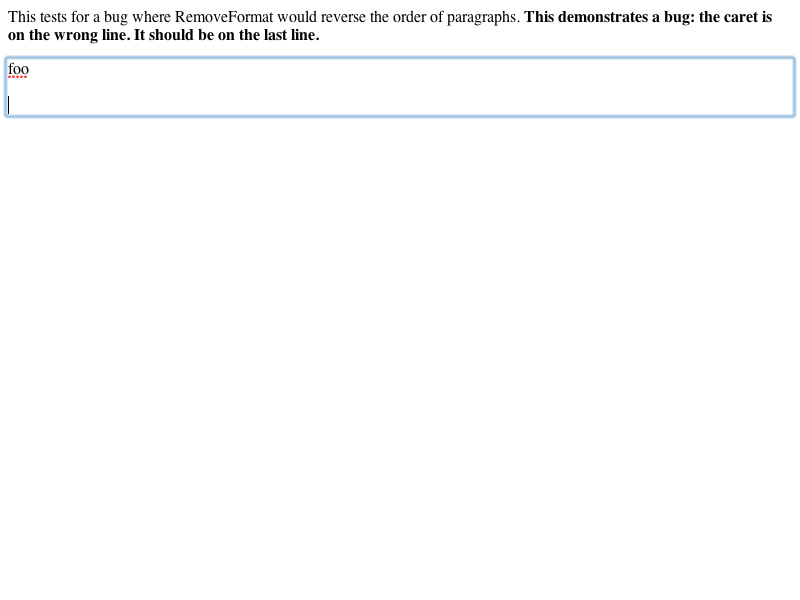
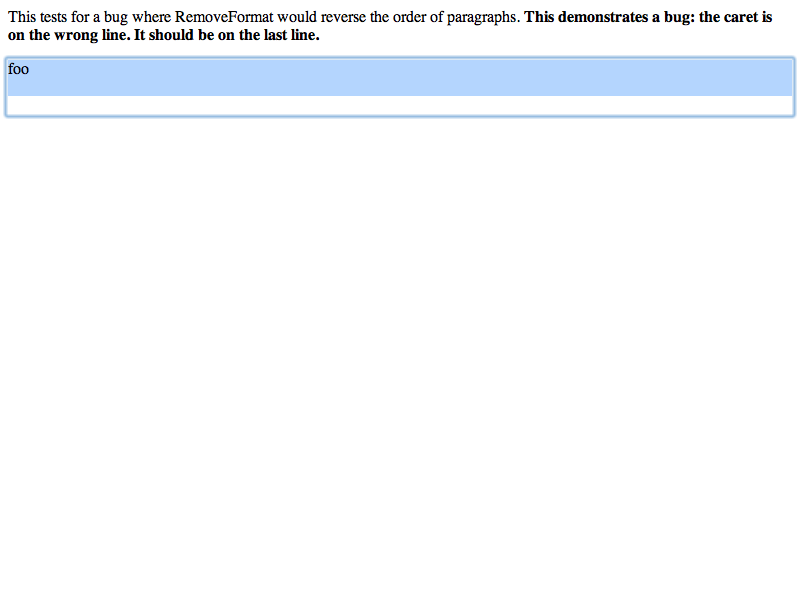
WebCore:
Reviewed by Darin Adler.

        <rdar://problem/5573879> GMail Beta: Crash in when undoing Remove Formating
        
        In the new beta, Google has added some custom code on top of our RemoveFormat
        to work around a bug where fully selected lists aren't removed.  This code corrupts
        the undo stack and causes crashes.  This change fixes two problems with RemoveFormat
        so that Google doesn't have to have any custom code. After checking this in I'll 
        work on bulletproofing the undo stack

        * WebCore.xcodeproj/project.pbxproj: 
        * editing/CompositeEditCommand.cpp:
        (WebCore::CompositeEditCommand::insertLineBreak): Added this convenience method.
        (WebCore::CompositeEditCommand::inputText): Added code to select all inserted text, not
        just the last paragraph.  Added code to support an input string with '\n's.
        * editing/CompositeEditCommand.h:
        * editing/Editor.cpp:
        (WebCore::Editor::removeFormattingAndStyle): Moved code to its own EditCommand.
        * editing/RemoveFormatCommand.cpp: Added. Moved code from removeFormattingAndStyle here.
        (WebCore::RemoveFormatCommand::RemoveFormatCommand):
        (WebCore::RemoveFormatCommand::doApply): Added code to remove fully selected lists.
        * editing/RemoveFormatCommand.h: Added.
        (WebCore::RemoveFormatCommand::editingAction):

LayoutTests:

        Reviewed by Darin Adler.
[…]

Changed region(s): [[0.0, 0.0, 1.0, 0.18]]

diff --git a/LayoutTests/editing/execCommand/5573879.html b/LayoutTests/editing/execCommand/5573879.html
@@ -1,0 +1,10 @@
+<p>This tests to make sure that RemoveFormat destroys lists if they are fully selected.  You should see foo\nbar below.</p>
+<div id="div" contenteditable="true"><ul><li>foo</li><li>bar</li></ul></div>
+
+<script>
+div = document.getElementById("div");
+div.focus();
+
+document.execCommand("SelectAll");
+document.execCommand("RemoveFormat");
+</script>

diff --git a/WebCore/editing/RemoveFormatCommand.cpp b/WebCore/editing/RemoveFormatCommand.cpp
@@ -1,0 +1,78 @@
+/*
+ * Copyright (C) 2007 Apple Computer, Inc.  All rights reserved.
+ *
+ * Redistribution and use in source and binary forms, with or without
+ * modification, are permitted provided that the following conditions
+ * are met:
+ * 1. Redistributions of source code must retain the above copyright
+ *    notice, this list of conditions and the following disclaimer.
+ * 2. Redistributions in binary form must reproduce the above copyright
+ *    notice, this list of conditions and the following disclaimer in the
+ *    documentation and/or other materials provided with the distribution.
+ *
+ * THIS SOFTWARE IS PROVIDED BY APPLE COMPUTER, INC. ``AS IS'' AND ANY
+ * EXPRESS OR IMPLIED WARRANTIES, INCLUDING, BUT NOT LIMITED TO, THE
+ * IMPLIED WARRANTIES OF MERCHANTABILITY AND FITNESS FOR A PARTICULAR
+ * PURPOSE ARE DISCLAIMED.  IN NO EVENT SHALL APPLE COMPUTER, INC. OR
+ * CONTRIBUTORS BE LIABLE FOR ANY DIRECT, INDIRECT, INCIDENTAL, SPECIAL,
+ * EXEMPLARY, OR CONSEQUENTIAL DAMAGES (INCLUDING, BUT NOT LIMITED TO,
+ * PROCUREMENT OF SUBSTITUTE GOODS OR SERVICES; LOSS OF USE, DATA, OR
+ * PROFITS; OR BUSINESS INTERRUPTION) HOWEVER CAUSED AND ON ANY THEORY
+ * OF LIABILITY, WHETHER IN CONTRACT, STRICT LIABILITY, OR TORT
+ * (INCLUDING NEGLIGENCE OR OTHERWISE) ARISING IN ANY WAY OUT OF THE USE
+ * OF THIS SOFTWARE, EVEN IF ADVISED OF THE POSSIBILITY OF SUCH DAMAGE. 
+ */
+
+#include "config.h"
+#include "RemoveFormatCommand.h"
+
+#include "CSSComputedStyleDeclaration.h"
+#include "Editor.h"
+#include "Frame.h"
+#include "HTMLNames.h"
+#include "Selection.h"
+#include "SelectionController.h"
+#include "TextIterator.h"
+#include "TypingCommand.h"
+
+namespace WebCore {
+
+using namespace HTMLNames;
+
+RemoveFormatCommand::RemoveFormatCommand(Document* document)
+    : CompositeEditCommand(document)
+{
+}
+
+void RemoveFormatCommand::doApply()
+{
+    Frame* frame = document()->frame();
+    
+    // Make a plain text string from the selection to remove formatting like tables and lists.
+    String string = plainText(frame->selectionController()->selection().toRange().get());
+
+    // Get the default style for this editable root, it's the style that we'll give the
+    // content that we're operating on.
+    Node* root = frame->selectionController()->rootEditableElement();
+    RefPtr<CSSComputedStyleDeclaration> computedStyle = new CSSComputedStyleDeclaration(root);
+    RefPtr<CSSMutableStyleDeclaration> defaultStyle = computedStyle->copyInheritableProperties();
+    
+    // Delete the selected content.
+    // FIXME: We should be able to leave this to insertText, but its delete operation
+    // doesn't preserve the style we're about to set.
+    deleteSelection();
+    
+    // Delete doesn't remove fully selected lists.
+    while (breakOutOfEmptyListItem())
+        ;
+    
+    // Normally, deleting a fully selected anchor and then inserting text will re-create
+    // the removed anchor, but we don't want that behavior here. 
+    frame->editor()->setRemovedAnchor(0);
+    // Insert the content with the default style.
+    frame->setTypingStyle(defaultStyle.get());
+    
+    inputText(string, true);
+}
+
+}

diff --git a/WebCore/editing/CompositeEditCommand.cpp b/WebCore/editing/CompositeEditCommand.cpp
@@ -40,6 +40,7 @@
 #include "HTMLNames.h"
 #include "InlineTextBox.h"
 #include "InsertIntoTextNodeCommand.h"
+#include "InsertLineBreakCommand.h"
 #include "InsertNodeBeforeCommand.h"
 #include "InsertParagraphSeparatorCommand.h"
 #include "InsertTextCommand.h"
@@ -120,6 +121,11 @@ void CompositeEditCommand::removeStyledElement(Element* element)
 void CompositeEditCommand::insertParagraphSeparator(bool useDefaultParagraphElement)
 {
     applyCommandToComposite(new InsertParagraphSeparatorCommand(document(), useDefaultParagraphElement));
+}
+
+void CompositeEditCommand::insertLineBreak()
+{
+    applyCommandToComposite(new InsertLineBreakCommand(document()));
 }
 
 void CompositeEditCommand::insertNodeBefore(Node* insertChild, Node* refChild)
@@ -262,9 +268,29 @@ void CompositeEditCommand::joinTextNodes(Text *text1, Text *text2)
 
 void CompositeEditCommand::inputText(const String &text, bool selectInsertedText)
 {
-    RefPtr<InsertTextCommand> command = new InsertTextCommand(document());
-    applyCommandToComposite(command);
-    command->input(text, selectInsertedText);
+    int offset = 0;
+    int length = text.length();
+    RefPtr<Range> startRange = new Range(document(), Position(document()->documentElement(), 0), endingSelection().start());
+    int startIndex = TextIterator::rangeLength(startRange.get());
+    int newline;
+    do {
+        newline = text.find('\n', offset);
+        if (newline != offset) {
+            RefPtr<InsertTextCommand> command = new InsertTextCommand(document());
+            applyCommandToComposite(command);
+            int substringLength = newline == -1 ? length - offset : newline - offset;
+            command->input(text.substring(offset, substringLength), false);
+        }
+        if (newline != -1)
+            insertLineBreak();
+            
+        offset = newline + 1;
+    } while (newline != -1 && offset != length);
+    
+    if (selectInsertedText) {
+        RefPtr<Range> selectedRange = TextIterator::rangeFromLocationAndLength(document()->documentElement(), startIndex, length);
+        setEndingSelection(Selection(selectedRange.get()));
+    }
 }
 
 void CompositeEditCommand::insertTextIntoNode(Text *node, int offset, const String &text)

diff --git a/WebCore/editing/RemoveFormatCommand.h b/WebCore/editing/RemoveFormatCommand.h
@@ -1,0 +1,42 @@
+/*
+ * Copyright (C) 2007 Apple Computer, Inc.  All rights reserved.
+ *
+ * Redistribution and use in source and binary forms, with or without
+ * modification, are permitted provided that the following conditions
+ * are met:
+ * 1. Redistributions of source code must retain the above copyright
+ *    notice, this list of conditions and the following disclaimer.
+ * 2. Redistributions in binary form must reproduce the above copyright
+ *    notice, this list of conditions and the following disclaimer in the
+ *    documentation and/or other materials provided with the distribution.
+ *
+ * THIS SOFTWARE IS PROVIDED BY APPLE COMPUTER, INC. ``AS IS'' AND ANY
+ * EXPRESS OR IMPLIED WARRANTIES, INCLUDING, BUT NOT LIMITED TO, THE
+ * IMPLIED WARRANTIES OF MERCHANTABILITY AND FITNESS FOR A PARTICULAR
+ * PURPOSE ARE DISCLAIMED.  IN NO EVENT SHALL APPLE COMPUTER, INC. OR
+ * CONTRIBUTORS BE LIABLE FOR ANY DIRECT, INDIRECT, INCIDENTAL, SPECIAL,
+ * EXEMPLARY, OR CONSEQUENTIAL DAMAGES (INCLUDING, BUT NOT LIMITED TO,
+ * PROCUREMENT OF SUBSTITUTE GOODS OR SERVICES; LOSS OF USE, DATA, OR
+ * PROFITS; OR BUSINESS INTERRUPTION) HOWEVER CAUSED AND ON ANY THEORY
+ * OF LIABILITY, WHETHER IN CONTRACT, STRICT LIABILITY, OR TORT
+ * (INCLUDING NEGLIGENCE OR OTHERWISE) ARISING IN ANY WAY OUT OF THE USE
+ * OF THIS SOFTWARE, EVEN IF ADVISED OF THE POSSIBILITY OF SUCH DAMAGE. 
+ */
+
+#ifndef RemoveFormatCommand_h
+#define RemoveFormatCommand_h
+
+#include "CompositeEditCommand.h"
+
+namespace WebCore {
+
+class RemoveFormatCommand : public CompositeEditCommand {
+public:
+    RemoveFormatCommand(Document*);
+    virtual void doApply();
+    virtual EditAction editingAction() const { return EditActionUnspecified; }
+};
+
+} // namespace WebCore
+
+#endif // RemoveFormatCommand_h

diff --git a/WebCore/editing/Editor.cpp b/WebCore/editing/Editor.cpp
@@ -61,6 +61,7 @@
 #include "Page.h"
 #include "Pasteboard.h"
 #include "Range.h"
+#include "RemoveFormatCommand.h"
 #include "ReplaceSelectionCommand.h"
 #include "SelectionController.h"
 #include "Sound.h"
@@ -581,27 +582,7 @@ void Editor::decreaseSelectionListLevel()
 
 void Editor::removeFormattingAndStyle()
 {
-    Document* document = m_frame->document();
-    
-    // Make a plain text string from the selection to remove formatting like tables and lists.
-    String string = plainText(m_frame->selectionController()->selection().toRange().get());
-
-    // Get the default style for this editable root, it's the style that we'll give the
-    // content that we're operating on.
-    Node* root = m_frame->selectionController()->rootEditableElement();
-    RefPtr<CSSComputedStyleDeclaration> computedStyle = new CSSComputedStyleDeclaration(root);
-    RefPtr<CSSMutableStyleDeclaration> defaultStyle = computedStyle->copyInheritableProperties();
-    
-    // Delete the selected content.
-    // FIXME: We should be able to leave this to insertText, but its delete operation
-    // doesn't preserve the style we're about to set.
-    deleteSelectionWithSmartDelete(false);
-    // Normally, deleting a fully selected anchor and then inserting text will re-create
-    // the removed anchor, but we don't want that behavior here. 
-    setRemovedAnchor(0);
-    // Insert the content with the default style.
-    m_frame->setTypingStyle(defaultStyle.get());
-    TypingCommand::insertText(document, string, true);
+    applyCommand(new RemoveFormatCommand(m_frame->document()));
 }
 
 void Editor::setLastEditCommand(PassRefPtr<EditCommand> lastEditCommand) 

diff --git a/WebCore/editing/CompositeEditCommand.h b/WebCore/editing/CompositeEditCommand.h
@@ -58,6 +58,7 @@ protected:
     void insertNodeAt(Node* insertChild, const Position&);
     void insertNodeBefore(Node* insertChild, Node* refChild);
     void insertParagraphSeparator(bool useDefaultParagraphElement = false);
+    void insertLineBreak();
     void insertTextIntoNode(Text* node, int offset, const String& text);
     void joinTextNodes(Text*, Text*);
     void rebalanceWhitespace();
